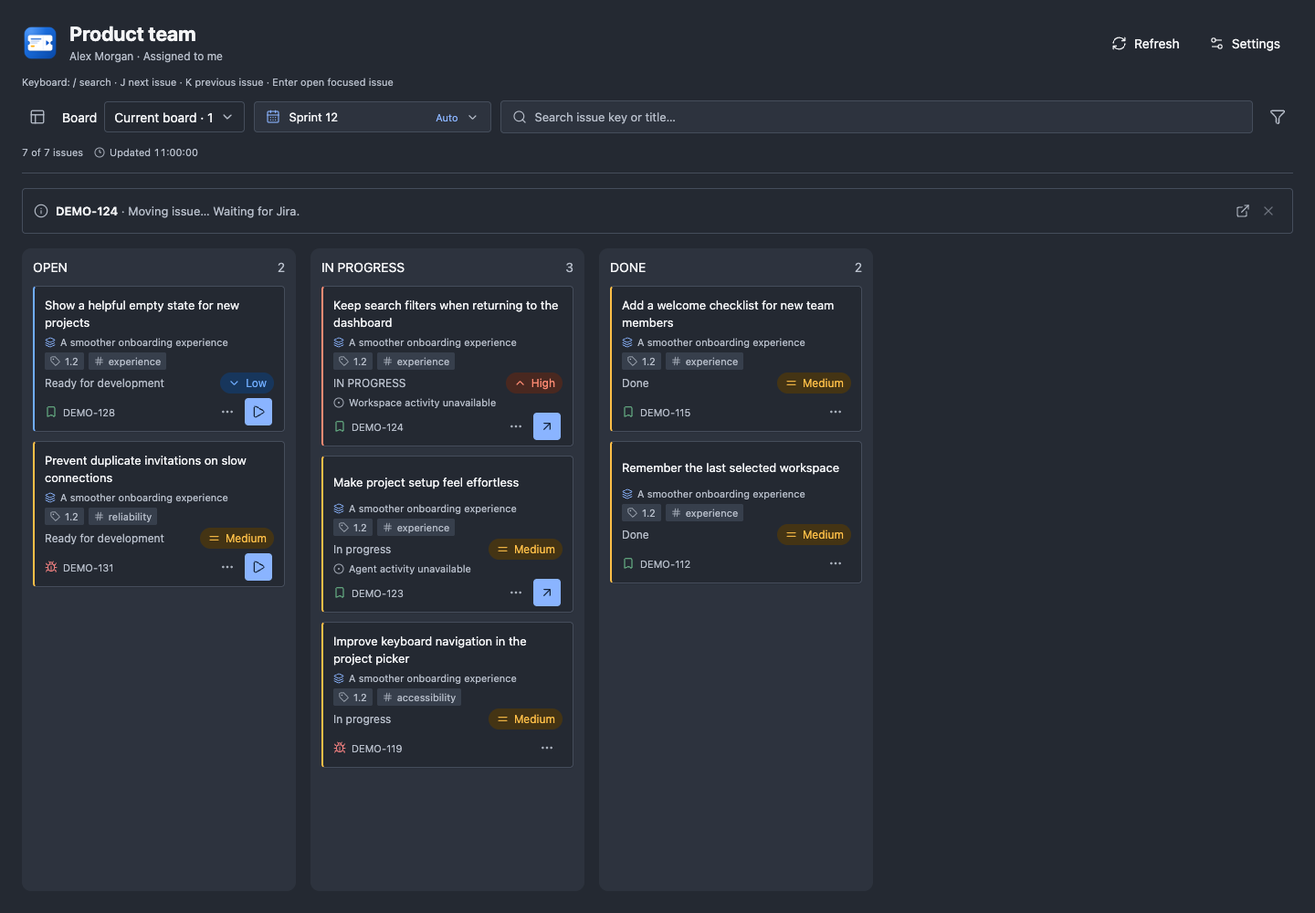
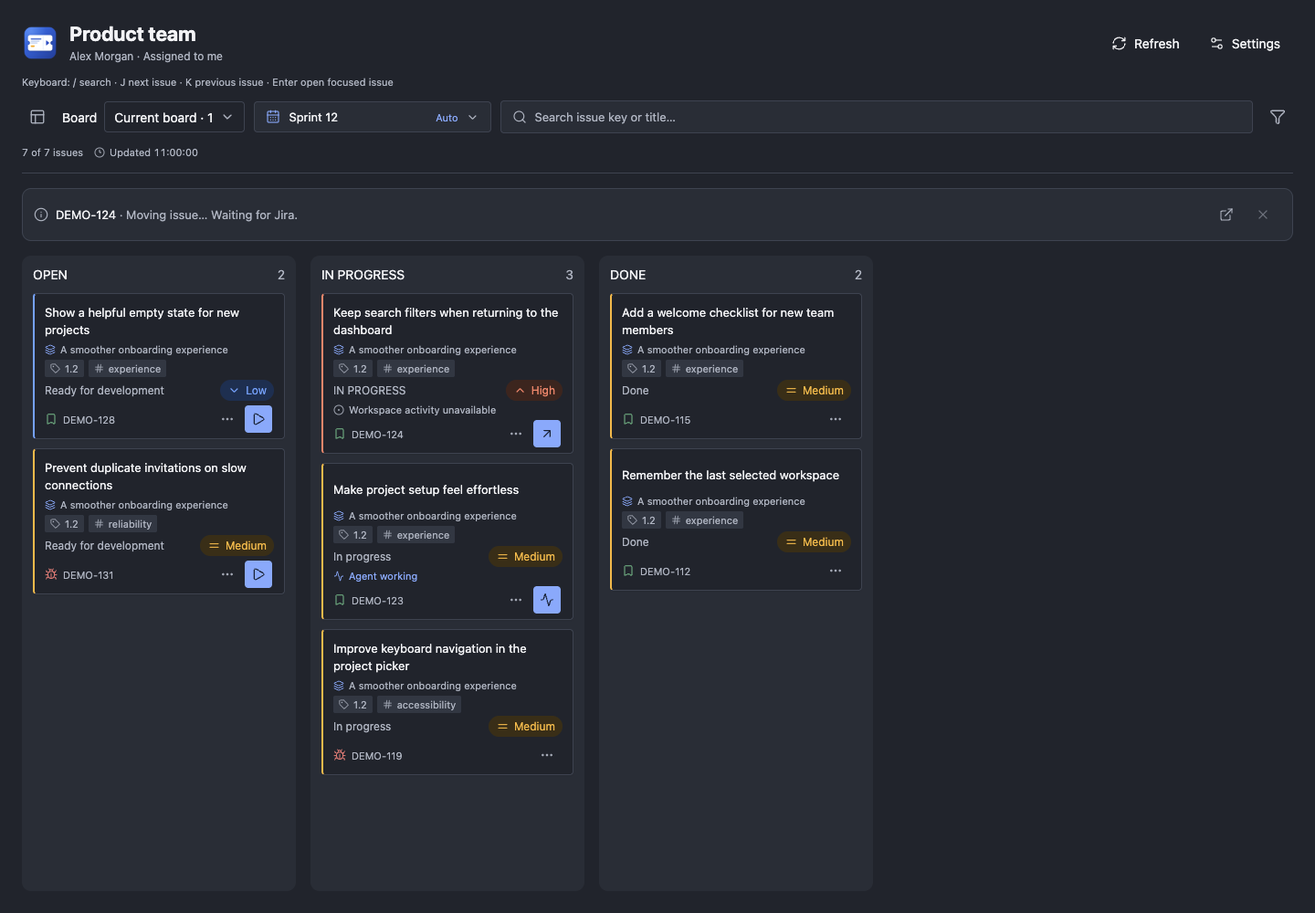
Release 1.4.0: agent-state actions and clearer Jira transitions (#51)
* feat(ui): release 1.4.0 with agent states and clearer transitions

* test(ui): wait for details before focusing attachment controls

---------

diff --git a/client/moves.tsx b/client/moves.tsx
@@ -11,12 +11,23 @@ import {readMoves,moveIssue} from '../shared/moves';
 type Option={id:string;name:string;statusId:string;column:string;development:boolean;existingWorkspace?:boolean;required:string[];destinations?:{projectId:string;name:string}[];fields?:TransitionField[]};
 type MoveContext={begin:(key:string,statusId:string,existingWorkspace:boolean)=>void;drop:(statuses:string[])=>void;cancel:()=>void;allowed:(statuses:string[])=>boolean;busy:boolean;issueKey:string;dragging:boolean;end:()=>void};
 const Context=createContext<MoveContext>({begin:()=>{},drop:()=>{},cancel:()=>{},allowed:()=>false,busy:false,issueKey:'',dragging:false,end:()=>{}});
+function TransitionChoice({option,theme,disabled,onPress}:{option:Option;theme:PluginScreenProps['theme'];disabled:boolean;onPress:()=>void}){
+ const [hovered,setHovered]=useState(false),[focused,setFocused]=useState(false);
+ const c=theme.colors;
+ return <Pressable accessibilityRole="button" accessibilityLabel={`Choose transition: ${option.name}`} accessibilityHint="Review this transition before confirming the move." accessibilityState={{disabled}} disabled={disabled} onPress={onPress} onHoverIn={()=>setHovered(true)} onHoverOut={()=>setHovered(false)} onFocus={()=>setFocused(true)} onBlur={()=>setFocused(false)} style={({pressed})=>({flexGrow:1,flexBasis:200,minWidth:0,minHeight:44,paddingHorizontal:12,paddingVertical:10,flexDirection:'row',alignItems:'center',gap:12,borderWidth:1,borderColor:focused?c.accent:c.border,borderRadius:radii.control,backgroundColor:hovered||focused||pressed?c.surface2:c.surface0,opacity:disabled?.5:1})}>
+  <Icon name="ArrowRight" size={18} color={c.accent}/>
+  <Text style={{flex:1,minWidth:0,fontSize:14,lineHeight:20,color:c.foreground}}>{option.name}</Text>
+  <Icon name="ChevronRight" size={16} color={c.foregroundMuted}/>
+ </Pressable>;
+}
 export function BoardMoves({children,sprintId,theme,onChanged,onOptimistic,site,disabled=false}:{disabled?:boolean;children:ReactNode;site:string;sprintId:number;theme:PluginScreenProps['theme'];onChanged:()=>void;onOptimistic:(key:string,statusId:string|undefined,pending?:boolean)=>void}){
  const read=useRpc(readMoves),move=useRpc(moveIssue);
  const [dragging,setDragging]=useState(false);
  const [key,setKey]=useState(''),[options,setOptions]=useState<Option[]>([]),[targets,setTargets]=useState<string[]>();
  const [busy,setBusy]=useState(false),[message,setMessage]=useState('');
  const [jiraTip,setJiraTip]=useState(false);
+ const [panelWidth,setPanelWidth]=useState(0);
+ const wide=panelWidth>=900;
  const [projectId,setProjectId]=useState<string>();
  const [selected,setSelected]=useState<Option>();const [values,setValues]=useState<Record<string,string>>({});
  const sourceStatus=useRef('');const existingWorkspace=useRef(false);const optimistic=useRef(false);
@@ -51,20 +62,32 @@ export function BoardMoves({children,sprintId,theme,onChanged,onOptimistic,site,
  const allowed=(_ids:string[])=>!disabled&&!busy&&!!latest.current.key;
  function drop(ids:string[]){setDragging(false);if(!allowed(ids))return;if(ids.includes(sourceStatus.current)){cancel();return;}if(existingWorkspace.current&&ids.length){optimistic.current=true;onOptimistic(latest.current.key,ids[0]);}void resolve(ids);}
  function cancel(){if(busy)return;++generation.current;setSelected(undefined);setKey('');setOptions([]);setMessage('');latest.current={key:'',options:[]};}
- return <Context.Provider value={{begin,drop,cancel,allowed,busy:busy||disabled,issueKey:key,dragging,end:()=>setDragging(false)}}>
- {key&&targets?<View style={{paddingHorizontal:12,paddingVertical:4,gap:4,borderWidth:1,borderColor:theme.colors.border,borderRadius:radii.control}}>
- <View style={{flexDirection:'row',alignItems:'center',gap:8}}>
-  <Icon name="Info" size={16} color={theme.colors.foregroundMuted}/>
-  <Text accessibilityRole={message?'alert':undefined} style={{flex:1,minWidth:0,color:theme.colors.foregroundMuted,fontSize:13,lineHeight:19,paddingVertical:6}}><Text style={{color:theme.colors.foreground,fontWeight:'600'}}>{key}</Text>{message?' · '+message:''}</Text>
-  <View style={{flexDirection:'row',alignItems:'center',gap:0}}>
+ const controls=(  <View style={{flexDirection:'row',alignItems:'center',gap:0}}>
   <View style={{position:'relative'}}>
    {jiraTip?<Tooltip theme={theme} text="Open in Jira"/>:null}
-   <Pressable accessibilityRole="link" accessibilityLabel={`Open ${key} in Jira`} onHoverIn={()=>setJiraTip(true)} onHoverOut={()=>setJiraTip(false)} onFocus={()=>setJiraTip(true)} onBlur={()=>setJiraTip(false)} onPress={()=>void openExternal(site+'/browse/'+key)} style={({pressed})=>({width:28,height:40,alignItems:'center',justifyContent:'center',borderRadius:radii.control,backgroundColor:pressed?theme.colors.surface2:'transparent'})}><Icon name="ExternalLink" size={16} color={theme.colors.foregroundMuted}/></Pressable>
+   <Pressable accessibilityRole="link" accessibilityLabel={`Open ${key} in Jira`} onHoverIn={()=>setJiraTip(true)} onHoverOut={()=>setJiraTip(false)} onFocus={()=>setJiraTip(true)} onBlur={()=>setJiraTip(false)} onPress={()=>void openExternal(site+'/browse/'+key)} style={({pressed})=>({width:40,height:40,alignItems:'center',justifyContent:'center',borderRadius:radii.control,backgroundColor:pressed?theme.colors.surface2:'transparent'})}><Icon name="ExternalLink" size={16} color={theme.colors.foregroundMuted}/></Pressable>
   </View>
-  <Pressable accessibilityRole="button" accessibilityLabel="Dismiss move status" disabled={busy} onPress={cancel} style={({pressed})=>({width:28,height:40,alignItems:'center',justifyContent:'center',borderRadius:radii.control,opacity:busy?.5:1,backgroundColor:pressed?theme.colors.surface2:'transparent'})}><Icon name="X" size={16} color={theme.colors.foregroundMuted}/></Pressable>
+  <Pressable accessibilityRole="button" accessibilityLabel="Dismiss move status" disabled={busy} onPress={cancel} style={({pressed})=>({width:40,height:40,alignItems:'center',justifyContent:'center',borderRadius:radii.control,opacity:busy?.5:1,backgroundColor:pressed?theme.colors.surface2:'transparent'})}><Icon name="X" size={16} color={theme.colors.foregroundMuted}/></Pressable>
+  </View>);
+ const choices=options.length>1;
+ return <Context.Provider value={{begin,drop,cancel,allowed,busy:busy||disabled,issueKey:key,dragging,end:()=>setDragging(false)}}>
+ {key&&targets?<View testID="move-status-panel" onLayout={event=>setPanelWidth(event.nativeEvent.layout.width)} style={{width:'100%',paddingHorizontal:12,paddingVertical:8,gap:10,borderWidth:1,borderColor:theme.colors.border,borderRadius:radii.surface,backgroundColor:theme.colors.surface1,flexDirection:choices&&wide?'row':'column',alignItems:choices&&wide?'center':undefined}}>
+ {choices?<>
+  <View style={{flex:wide?1:undefined,maxWidth:wide?460:undefined,minWidth:0,gap:4}}>
+   <View style={{flexDirection:'row',alignItems:'center',gap:8}}>
+    <Text accessibilityRole="header" style={{flex:1,minWidth:0,fontSize:14,lineHeight:20,color:theme.colors.foreground}}>{key} · Choose a transition</Text>
+    {!wide?controls:null}
+   </View>
+   <Text style={{fontSize:12,lineHeight:18,color:theme.colors.foregroundMuted}}>To {options[0].column} · Review before confirming</Text>
+   {message?<Text accessibilityRole="alert" style={{fontSize:13,lineHeight:19,color:theme.colors.foregroundMuted}}>{message}</Text>:null}
   </View>
- </View>
- {options.length>1?<View style={{gap:8,paddingBottom:8}}>{options.map(o=><Pressable key={o.id} accessibilityRole="button" disabled={busy} onPress={()=>{setProjectId(undefined);setSelected(o);setValues({});setMessage('');}} style={{padding:12,minHeight:44}}><Text style={{color:theme.colors.foreground}}>{o.name} → {o.column}</Text></Pressable>)}</View>:null}
+  <View style={{flex:wide?1:undefined,minWidth:0,flexDirection:'row',flexWrap:'wrap',gap:8}}>{options.map(o=><TransitionChoice key={o.id} option={o} theme={theme} disabled={busy} onPress={()=>{setProjectId(undefined);setSelected(o);setValues({});setMessage('');}}/>)}</View>
+  {wide?controls:null}
+ </>:<View style={{flexDirection:'row',alignItems:'center',gap:8}}>
+  <Icon name="Info" size={16} color={theme.colors.foregroundMuted}/>
+  <Text accessibilityRole={message?'alert':undefined} style={{flex:1,minWidth:0,color:theme.colors.foregroundMuted,fontSize:13,lineHeight:19}}><Text style={{color:theme.colors.foreground}}>{key}</Text>{message?' · '+message:''}</Text>
+  {controls}
+ </View>}
  </View>:null}
  {selected?<TransitionDialog destinations={selected.destinations} projectId={projectId} onProjectChange={setProjectId} theme={theme} issueKey={key} site={site} column={selected.column} development={selected.development} fields={selected.fields??[]} values={values} message={message} busy={busy} onChange={(id,value)=>setValues(v=>({...v,[id]:value}))} onClose={()=>setSelected(undefined)} onConfirm={()=>void execute(selected)}/>:null}
  {children}

diff --git a/client/start-work.tsx b/client/start-work.tsx
@@ -1,3 +1,4 @@
+import {workspaceAction,type WorkspaceActivity} from '../shared/workspace-activity';
 import {ProjectChoices} from './project-choices';
 import {useStartWorkState} from './start-work-state';
 import {radii} from './radii';
@@ -11,8 +12,8 @@ import {useState,useContext,type ReactNode} from 'react';
 import {Modal,ScrollView,ActivityIndicator,Pressable,Text,View,useWindowDimensions} from 'react-native';
 import {mappings,prepareBranches,startWork} from '../shared/contracts';
 
-type Props=Pick<PluginScreenProps,'theme'|'navigation'> & {linkedWorkspace?:{workspaceId:string;agentId?:string};canStart:boolean;mappingReady:boolean;onConfigureMapping?:()=>void;issueKey:string;sprintId:number;onStarted:()=>void;footer:ReactNode;showLabel?:boolean;dense?:boolean};
-export function StartWork({linkedWorkspace,canStart,theme,navigation,issueKey,mappingReady,onConfigureMapping,sprintId,onStarted,footer,showLabel=false,dense=false}:Props){
+type Props=Pick<PluginScreenProps,'theme'|'navigation'> & {activity?:WorkspaceActivity;linkedWorkspace?:{workspaceId:string;agentId?:string};canStart:boolean;mappingReady:boolean;onConfigureMapping?:()=>void;issueKey:string;sprintId:number;onStarted:()=>void;footer:ReactNode;showLabel?:boolean;dense?:boolean};
+export function StartWork({activity,linkedWorkspace,canStart,theme,navigation,issueKey,mappingReady,onConfigureMapping,sprintId,onStarted,footer,showLabel=false,dense=false}:Props){
   const compact=useWindowDimensions().width<760;
   const openIssue=useContext(OpenWorkspaceIssue);
   const start=useRpc(startWork);const prepare=useRpc(prepareBranches);
@@ -25,6 +26,7 @@ export function StartWork({linkedWorkspace,canStart,theme,navigation,issueKey,ma
   const [error,setError]=useState('');
   const result=linkedWorkspace??operation.result;
   const configure=result?undefined:onConfigureMapping;
+  const workspaceButton=workspaceAction(activity);
   const text={color:theme.colors.foreground};
   const errorText=(e:unknown)=>e instanceof Error?e.message.replace(/^Request failed: /,'').replace(/\s+requestType=.*$/,''):'Could not start work. Please retry.';
   async function execute(selection?:string,alreadyAcquired=false,destination?:string){
@@ -47,8 +49,8 @@ export function StartWork({linkedWorkspace,canStart,theme,navigation,issueKey,ma
     <View style={{flexDirection:'row',alignItems:'center',justifyContent:'space-between',gap:0}}>
       {footer}
       {(canStart||result)?<View style={{position:'relative'}}>
-        {tip&&!showLabel?<Tooltip theme={theme} text={configure?'Configure mapping':result?'Open workspace':busy?'Starting…':'Start work'}/>:null}
-        <Pressable aria-busy={busy} accessibilityRole="button" accessibilityLabel={`${configure?'Configure mapping for':result?'Open workspace':busy?'Starting':'Start work'} ${issueKey}`} accessibilityHint={configure?'Set up the Jira project mapping before starting work':result?'Open the linked agent':'Create or reuse a workspace and agent for this issue'} accessibilityState={{disabled:busy||(!configure&&!navigation)||(!result&&!mappingReady),busy}} disabled={busy||(!configure&&!navigation)||(!result&&!mappingReady)}
+        {tip&&!showLabel?<Tooltip theme={theme} text={configure?'Configure mapping':result?workspaceButton.label:busy?'Starting…':'Start work'}/>:null}
+        <Pressable testID={`workspace-action-${issueKey}`} aria-busy={busy} accessibilityRole="button" accessibilityLabel={`${configure?'Configure mapping for':result?'Open workspace':busy?'Starting':'Start work'} ${issueKey}`} accessibilityHint={configure?'Set up the Jira project mapping before starting work':result?workspaceButton.label:'Create or reuse a workspace and agent for this issue'} accessibilityState={{disabled:busy||(!configure&&!navigation)||(!result&&!mappingReady),busy}} disabled={busy||(!configure&&!navigation)||(!result&&!mappingReady)}
           onHoverIn={()=>setTip(true)} onHoverOut={()=>setTip(false)} onFocus={()=>setTip(true)} onBlur={()=>setTip(false)} onLongPress={()=>setTip(true)}
           onPress={()=>{
             setTip(false);
@@ -57,7 +59,7 @@ export function StartWork({linkedWorkspace,canStart,theme,navigation,issueKey,ma
             setError('');setProjectId(undefined);if(destinations.length>1){setChoosingProject(true);}else void prepareWork();
           }}
           style={({pressed})=>({width:showLabel?undefined:dense&&!compact?34:44,minHeight:(showLabel||dense)&&!compact?34:44,paddingHorizontal:showLabel?12:0,flexDirection:'row',gap:8,borderRadius:radii.control,alignItems:'center',justifyContent:'center',backgroundColor:showLabel?theme.colors.accent:pressed?theme.colors.surface2:'transparent',opacity:busy||(!configure&&!navigation)||(!result&&!mappingReady)?.5:1,transform:[{scale:pressed?.96:1}]})}>
-          <View style={{width:showLabel?18:30,height:showLabel?18:30,borderRadius:radii.control,backgroundColor:configure?theme.colors.surface2:theme.colors.accent,alignItems:'center',justifyContent:'center'}}>{busy?<ActivityIndicator color={theme.colors.accentForeground} size="small"/>:<Icon name={configure?'FolderGit2':result?'ArrowUpRight':'Play'} size={16} color={configure?theme.colors.accent:theme.colors.accentForeground}/>}</View>
+          <View style={{width:showLabel?18:30,height:showLabel?18:30,borderRadius:radii.control,backgroundColor:configure?theme.colors.surface2:theme.colors.accent,alignItems:'center',justifyContent:'center'}}>{busy?<ActivityIndicator color={theme.colors.accentForeground} size="small"/>:<Icon name={configure?'FolderGit2':result?workspaceButton.icon:'Play'} size={16} color={configure?theme.colors.accent:theme.colors.accentForeground}/>}</View>
           {showLabel?<Text style={{color:theme.colors.accentForeground,fontSize:14}}>{configure?'Configure mapping':result?'Open workspace':busy?'Starting…':'Start work'}</Text>:null}
         </Pressable>
       </View>:null}

diff --git a/shared/workspace-activity.ts b/shared/workspace-activity.ts
@@ -1,13 +1,13 @@
 export type ActivityState='attention'|'working'|'needs-input'|'finished'|'failed'|'idle'|'unavailable';
-export type WorkspaceActivity={state:ActivityState;source:'agent'|'workspace';updatedAt?:string;agentId?:string};
+export type WorkspaceActivity={state:ActivityState;source:'agent'|'workspace';updatedAt?:string;agentId?:string;requiresAttention?:boolean;done?:boolean};
 export type ActivityLink={workspaceId:string;agentId?:string};
-type Agent={id:string;workspaceId?:string;status:string;pendingPermissions:unknown[];attentionReason?:string|null;updatedAt:string;archivedAt?:string|null};
+type Agent={id:string;workspaceId?:string;status:string;pendingPermissions:unknown[];attentionReason?:string|null;requiresAttention?:boolean;updatedAt:string;archivedAt?:string|null};
 type Workspace={id:string;status:string;activityAt:string|null;archivingAt?:string|null};
 export type ActivityReader={agents:{ref:(id:string)=>{refresh:()=>Promise<{agent:Agent}|null>}};workspaces:{ref:(id:string)=>{refresh:()=>Promise<Workspace|null>}}};
 export const activityKey=(link:ActivityLink)=>JSON.stringify([link.workspaceId,link.agentId??'']);
 export function agentActivity(agent:Agent):WorkspaceActivity{
  const state=agent.pendingPermissions.length||agent.attentionReason==='permission'?'needs-input':agent.status==='error'||agent.attentionReason==='error'?'failed':agent.status==='running'||agent.status==='initializing'?'working':agent.attentionReason==='finished'?'finished':'idle';
- return {state,source:'agent',agentId:agent.id,updatedAt:agent.updatedAt};
+ return {state,source:'agent',agentId:agent.id,updatedAt:agent.updatedAt,requiresAttention:agent.requiresAttention};
 }
 // Read metadata only for linked workspaces. Bound concurrency and isolate failures;
 // never read timelines, infer completion from idle, or propagate provider errors.
@@ -20,7 +20,7 @@ export async function readWorkspaceActivity(reader:ActivityReader,links:Activity
    try{if(link.agentId){const entry=await reader.agents.ref(link.agentId).refresh();
     if(entry&&entry.agent.id===link.agentId&&entry.agent.workspaceId===link.workspaceId&&!entry.agent.archivedAt)value=agentActivity(entry.agent);
    }else{const workspace=await reader.workspaces.ref(link.workspaceId).refresh();
-    if(workspace&&workspace.id===link.workspaceId&&!workspace.archivingAt)value={source,state:workspace.status==='running'?'working':workspace.status==='needs_input'?'needs-input':workspace.status==='failed'?'failed':workspace.status==='attention'?'attention':'idle',updatedAt:workspace.activityAt??undefined};
+    if(workspace&&workspace.id===link.workspaceId&&!workspace.archivingAt)value={source,state:workspace.status==='running'?'working':workspace.status==='needs_input'?'needs-input':workspace.status==='failed'?'failed':workspace.status==='attention'?'attention':'idle',updatedAt:workspace.activityAt??undefined,done:workspace.status==='done'};
    }}catch{/* Keep an explicit unavailable state, without leaking error text. */}
    result[activityKey(link)]=value;
   }
@@ -29,4 +29,17 @@ export async function readWorkspaceActivity(reader:ActivityReader,links:Activity
 export function activityLabel(value:WorkspaceActivity){
  const prefix=value.source==='agent'?'Agent':'Workspace';
  return `${prefix} ${({'attention':'needs attention','working':'working','needs-input':'needs input','finished':'finished','failed':'failed','idle':'idle','unavailable':'activity unavailable'} as const)[value.state]}`;
+}
+
+// Match Paseo's review/done distinction only when attention metadata is known.
+// Missing metadata must not turn an unknown or merely idle agent into "done".
+export function workspaceAction(value?:WorkspaceActivity){
+ if(!value||value.state==='unavailable')return {icon:'ArrowUpRight',label:'Open workspace'} as const;
+ if(value.state==='needs-input')return {icon:'ShieldQuestion',label:'Waiting for approval · Open workspace'} as const;
+ if(value.state==='failed')return {icon:'CircleAlert',label:'Agent error · Open workspace'} as const;
+ if(value.state==='working')return {icon:'Activity',label:'Agent running · Open workspace'} as const;
+ if(value.state==='attention'||value.requiresAttention===true)return {icon:'Eye',label:'Waiting for review · Open workspace'} as const;
+ if(value.done||value.requiresAttention===false)return {icon:'CircleCheck',label:'Done · Open workspace'} as const;
+ if(value.state==='finished')return {icon:'CircleCheck',label:'Agent finished · Open workspace'} as const;
+ return {icon:'CirclePause',label:'Agent idle · Open workspace'} as const;
 }

diff --git a/client/issue-details.tsx b/client/issue-details.tsx
@@ -1,3 +1,4 @@
+import type {WorkspaceActivity} from '../shared/workspace-activity';
 import {radii} from './radii';
 import {PriorityBadge} from './priority-badge';
 import {IssueNavigation,type IssueNavigationProps} from './issue-navigation';
@@ -21,7 +22,7 @@ import {Modal as NativeModal,SafeAreaView,KeyboardAvoidingView,Platform,Pressabl
 import type {ReactNode} from 'react';
 import {readIssueDetails,type Issue} from '../shared/contracts';
 import {Action} from './settings-ui';
-export function IssueDetails({issueNavigation,startAvailable=true,contentAvailable=true,readOnly=false,connectionRevision='',issue,sprintId,theme,onClose,onOpenJira,hostId,navigation,mappingReady,onConfigureMapping,onStarted,presentation='modal',panelWidth=480,panelCollapsed=false,onTogglePanel=onClose,onResizePanel=()=>{}}:{issueNavigation?:IssueNavigationProps;startAvailable?:boolean;contentAvailable?:boolean;readOnly?:boolean;connectionRevision?:string;presentation?:'modal'|'panel'|'fullscreen';panelWidth?:number;panelCollapsed?:boolean;onTogglePanel?:()=>void;onResizePanel?:(width:number)=>void;navigation:PluginScreenProps['navigation'];mappingReady:boolean;onConfigureMapping?:()=>void;onStarted:()=>void;hostId:string;issue:Issue;sprintId:number;theme:PluginScreenProps['theme'];onClose:()=>void;onOpenJira:()=>void}){
+export function IssueDetails({activity,issueNavigation,startAvailable=true,contentAvailable=true,readOnly=false,connectionRevision='',issue,sprintId,theme,onClose,onOpenJira,hostId,navigation,mappingReady,onConfigureMapping,onStarted,presentation='modal',panelWidth=480,panelCollapsed=false,onTogglePanel=onClose,onResizePanel=()=>{}}:{activity?:WorkspaceActivity;issueNavigation?:IssueNavigationProps;startAvailable?:boolean;contentAvailable?:boolean;readOnly?:boolean;connectionRevision?:string;presentation?:'modal'|'panel'|'fullscreen';panelWidth?:number;panelCollapsed?:boolean;onTogglePanel?:()=>void;onResizePanel?:(width:number)=>void;navigation:PluginScreenProps['navigation'];mappingReady:boolean;onConfigureMapping?:()=>void;onStarted:()=>void;hostId:string;issue:Issue;sprintId:number;theme:PluginScreenProps['theme'];onClose:()=>void;onOpenJira:()=>void}){
  const [descriptionExpanded,setDescriptionExpanded]=useState(true);
  const [jiraTip,setJiraTip]=useState(false);
  const read=useRpc(readIssueDetails);
@@ -31,7 +32,7 @@ export function IssueDetails({issueNavigation,startAvailable=true,contentAvailab
  return <DetailsShell panelCollapsed={panelCollapsed} onTogglePanel={onTogglePanel} onResizePanel={onResizePanel} presentation={presentation} panelWidth={panelWidth} issueKey={issue.key} theme={theme} onClose={onClose}>
   {issueNavigation?<IssueNavigation {...issueNavigation} theme={theme}/>:null}
   <Text selectable style={{color:c.foreground,fontSize:22,lineHeight:29,fontWeight:'700'}}>{issue.summary}</Text>
-  <StartWork showLabel linkedWorkspace={issue.linkedWorkspace} canStart={startAvailable&&canStartWork(issue)} mappingReady={mappingReady} onConfigureMapping={startAvailable?onConfigureMapping:undefined} theme={theme} navigation={navigation} issueKey={issue.key} sprintId={sprintId} onStarted={onStarted} footer={
+  <StartWork activity={activity} showLabel linkedWorkspace={issue.linkedWorkspace} canStart={startAvailable&&canStartWork(issue)} mappingReady={mappingReady} onConfigureMapping={startAvailable?onConfigureMapping:undefined} theme={theme} navigation={navigation} issueKey={issue.key} sprintId={sprintId} onStarted={onStarted} footer={
    <View style={{flexDirection:'row',alignItems:'center',flexWrap:'wrap',gap:8,flex:1,minWidth:0}}><View style={{paddingHorizontal:10,paddingVertical:6,borderRadius:radii.control,backgroundColor:c.surface2}}><Text style={{color:c.foreground,fontSize:13}}>{issue.status}</Text></View><Text style={{color:c.foregroundMuted,fontSize:13}}>{issue.type}</Text>{issue.priority?<PriorityBadge priority={issue.priority}/>:null}<View style={{position:'relative'}}>
     {jiraTip?<Tooltip theme={theme} text="Open in Jira" align="left" offset={42}/>:null}
     <Pressable accessibilityRole="link" accessibilityLabel="Open in Jira" onHoverIn={()=>setJiraTip(true)} onHoverOut={()=>setJiraTip(false)} onFocus={()=>setJiraTip(true)} onBlur={()=>setJiraTip(false)} onLongPress={()=>setJiraTip(true)} onPress={()=>{setJiraTip(false);onOpenJira();}} style={({pressed})=>({width:40,height:40,borderRadius:radii.control,alignItems:'center',justifyContent:'center',backgroundColor:pressed?c.surface2:'transparent'})}><Icon name="ExternalLink" size={17} color={c.foregroundMuted}/></Pressable>

diff --git a/client/tooltip.tsx b/client/tooltip.tsx
@@ -1,13 +1,43 @@
 import {radii} from './radii';
-import {useState} from 'react';
+import {createElement,useLayoutEffect,useRef,useState} from 'react';
 import {Platform,Text,View,useWindowDimensions} from 'react-native';
 import type {SettingsTheme} from './settings-ui';
+
+type TooltipElement=HTMLDivElement & {showPopover?:()=>void;getBoundingClientRect:()=>{left:number;right:number;top:number;bottom:number;width:number;height:number};style:Record<string,string>};
+declare const window:{innerWidth:number;innerHeight:number;addEventListener:(event:string,listener:()=>void,capture?:boolean)=>void;removeEventListener:(event:string,listener:()=>void,capture?:boolean)=>void};
+declare const ResizeObserver:{new(callback:()=>void):{observe:(element:TooltipElement)=>void;disconnect:()=>void}};
+
+// The browser top layer escapes card/column overflow without a modal focus trap.
+function WebTooltip({theme,text,align,placement,offset}:{theme:SettingsTheme;text:string;align:'left'|'right';placement:'above'|'below';offset:number}){
+ const anchor=useRef<TooltipElement>(null),bubble=useRef<TooltipElement>(null);
+ useLayoutEffect(()=>{
+  const node=bubble.current,origin=anchor.current;if(!node||!origin)return;
+  node.showPopover?.();
+  const position=()=>{
+   const r=origin.getBoundingClientRect(),size=node.getBoundingClientRect();
+   const margin=8,limit=window.innerWidth-margin-size.width;
+   const left=Math.max(margin,Math.min(align==='left'?r.left:r.right-size.width,limit));
+   const above=r.bottom-offset-size.height,below=r.top+offset;
+   const preferred=placement==='above'?above:below;
+   const alternate=placement==='above'?below:above;
+   const top=Math.max(margin,Math.min(preferred<margin||preferred+size.height>window.innerHeight-margin?alternate:preferred,window.innerHeight-margin-size.height));
+   Object.assign(node.style,{left:`${left}px`,top:`${top}px`,visibility:r.bottom<0||r.top>window.innerHeight||r.right<0||r.left>window.innerWidth?'hidden':'visible'});
+  };
+  position();
+  window.addEventListener('scroll',position,true);window.addEventListener('resize',position);
+  const observer=new ResizeObserver(position);observer.observe(node);observer.observe(origin);
+  return ()=>{observer.disconnect();window.removeEventListener('scroll',position,true);window.removeEventListener('resize',position);};
+ },[text,align,placement,offset]);
+ return createElement('div',{ref:anchor,style:{position:'absolute',inset:0,pointerEvents:'none'}},
+  createElement('div',{ref:bubble,popover:'manual',role:'tooltip',style:{position:'fixed',inset:'auto',margin:0,border:0,width:'max-content',maxWidth:'min(280px, calc(100vw - 16px))',boxSizing:'border-box',padding:'4px 8px',borderRadius:radii.small,background:theme.colors.foreground,color:theme.colors.surface0,fontSize:12,lineHeight:'16px',fontWeight:400,textAlign:'left',overflowWrap:'anywhere',pointerEvents:'none',visibility:'hidden',zIndex:2147483647}},text));
+}
 
 // Shared presentation for every plugin-owned tooltip; the trigger owns visibility.
 export function Tooltip({theme,text,align='right',placement='above',offset=44}:{theme:SettingsTheme;text:string;align?:'left'|'right';placement?:'above'|'below';offset?:number}){
  const {width}=useWindowDimensions();
  const [measuredWidth,setMeasuredWidth]=useState<number>();
  const web=Platform.OS==='web';
+ if(web)return <WebTooltip theme={theme} text={text} align={align} placement={placement} offset={offset}/>;
  return <View pointerEvents="none" style={{position:'absolute',...(align==='left'?{left:0}:{right:0}),...(placement==='above'?{bottom:offset}:{top:offset}),width:web?'max-content' as any:measuredWidth??Math.min(280,width-24),maxWidth:Math.min(280,width-24),paddingHorizontal:8,paddingVertical:4,borderRadius:radii.small,backgroundColor:theme.colors.foreground,zIndex:10,opacity:web||measuredWidth?1:0}}>
   <Text onTextLayout={web?undefined:event=>{const content=Math.max(0,...event.nativeEvent.lines.map(line=>line.width));setMeasuredWidth(Math.ceil(content)+16);}} style={{color:theme.colors.surface0,fontSize:12,lineHeight:16,textAlign:'left',fontWeight:'400'}}>{text}</Text>
  </View>;

diff --git a/client/dashboard.tsx b/client/dashboard.tsx
@@ -258,7 +258,7 @@ function DashboardBody({host,theme,layout,navigation}:PluginScreenProps){
     </BoardMoves>}
   </View>
   {showEmptyPanel?<DetailsPanel empty theme={theme} issueKey="" width={clampPanelWidth(panelWidth,availableWidth)} collapsed={panelCollapsed} onToggle={()=>setPanelCollapsed(value=>!value)} onResize={width=>setPanelWidth(clampPanelWidth(width,availableWidth))}>{null}</DetailsPanel>:null}
-  {!selectionGone&&selected&&currentIssue&&preferences.status==='ready'&&availableWidth>0?<IssueDetails issueNavigation={{focusDirection,position:detailNav.index+1,total:detailNav.total,onPrevious:detailNav.previous?()=>goToIssue(detailNav.previous,'previous'):undefined,onNext:detailNav.next?()=>goToIssue(detailNav.next,'next'):undefined}} startAvailable={true} readOnly={twgReadOnly} connectionRevision={revision} key={`${host.id}:${selected.sprintId}:${currentIssue.key}`} presentation={presentation} panelWidth={clampPanelWidth(panelWidth,availableWidth)} panelCollapsed={panelCollapsed} onTogglePanel={()=>setPanelCollapsed(value=>!value)} onResizePanel={width=>setPanelWidth(clampPanelWidth(width,availableWidth))} navigation={navigation} mappingReady={projectMappings.status==='ready'} onConfigureMapping={projectMappings.status==='ready'&&!projectMappings.values.items.some(m=>m.jiraProjectKey===currentIssue.projectKey)?()=>{setSelected(undefined);setMappingProject(currentIssue.projectKey);setEditing(true);}:undefined} onStarted={()=>void board.refetch()} hostId={host.id} issue={currentIssue} sprintId={selected.sprintId} theme={theme} onClose={()=>setSelected(undefined)} onOpenJira={()=>{void openExternal(`${selected.site}/browse/${currentIssue.key}`).catch(()=>setLinkError('Could not open Jira. Please try again.'));}}/>:null}
+  {!selectionGone&&selected&&currentIssue&&preferences.status==='ready'&&availableWidth>0?<IssueDetails activity={currentIssue.linkedWorkspace?activity.data?.[activityKey(currentIssue.linkedWorkspace)]:undefined} issueNavigation={{focusDirection,position:detailNav.index+1,total:detailNav.total,onPrevious:detailNav.previous?()=>goToIssue(detailNav.previous,'previous'):undefined,onNext:detailNav.next?()=>goToIssue(detailNav.next,'next'):undefined}} startAvailable={true} readOnly={twgReadOnly} connectionRevision={revision} key={`${host.id}:${selected.sprintId}:${currentIssue.key}`} presentation={presentation} panelWidth={clampPanelWidth(panelWidth,availableWidth)} panelCollapsed={panelCollapsed} onTogglePanel={()=>setPanelCollapsed(value=>!value)} onResizePanel={width=>setPanelWidth(clampPanelWidth(width,availableWidth))} navigation={navigation} mappingReady={projectMappings.status==='ready'} onConfigureMapping={projectMappings.status==='ready'&&!projectMappings.values.items.some(m=>m.jiraProjectKey===currentIssue.projectKey)?()=>{setSelected(undefined);setMappingProject(currentIssue.projectKey);setEditing(true);}:undefined} onStarted={()=>void board.refetch()} hostId={host.id} issue={currentIssue} sprintId={selected.sprintId} theme={theme} onClose={()=>setSelected(undefined)} onOpenJira={()=>{void openExternal(`${selected.site}/browse/${currentIssue.key}`).catch(()=>setLinkError('Could not open Jira. Please try again.'));}}/>:null}
   </View>
   </View>
   </View>;

diff --git a/cypress/registry/listing.cy.tsx b/cypress/registry/listing.cy.tsx
@@ -6,6 +6,31 @@ const button=(label:string)=>cy.get(`[role="button"][aria-label="${label}"]`);
 const detail=()=>cy.get('[aria-label^="Open details for DEMO-123:"]');
 describe('Registry previews',()=>{
  beforeEach(()=>registryRpc());
+ // Generated by Cypress Author, 2026-11-20.
+ it('agent states → visible approval, running, review and done actions',()=>{
+  cy.viewport(1440,1000);
+  const states=[{status:'idle',pendingPermissions:[{}],requiresAttention:true},{status:'running',pendingPermissions:[],requiresAttention:false},{status:'idle',pendingPermissions:[],requiresAttention:true,attentionReason:'finished'},{status:'idle',pendingPermissions:[],requiresAttention:false}];
+  cy.intercept('POST','/__rpc/board.read',{body:{...registryBoard,issues:registryBoard.issues.map((i,index)=>index<4?{...i,linkedWorkspace:{workspaceId:`workspace-${index}`,agentId:`agent-${index}`}}:i)}});
+  states.forEach((state,index)=>cy.intercept('GET',`/__paseo/agents/agent-${index}`,{agent:{id:`agent-${index}`,workspaceId:`workspace-${index}`,updatedAt:'2026-11-20T10:00:00Z',...state}}));
+  mount(<Harness preview mappingItems={registryMappings}/>);
+  cy.get('[data-testid="workspace-action-DEMO-124"] svg.lucide-shield-question').should('exist');
+  cy.get('[data-testid="workspace-action-DEMO-128"] svg.lucide-activity').should('exist');
+  cy.get('[data-testid="workspace-action-DEMO-131"] svg.lucide-eye').should('exist');
+  cy.get('[data-testid="workspace-action-DEMO-123"] svg.lucide-circle-check').should('exist');
+  button('Open workspace DEMO-124').focus();cy.contains('Waiting for approval · Open workspace').should('be.visible');
+  cy.get('[data-cy-root]').screenshot('registry-agent-states');
+ });
+ it('ambiguous transition → compact full-width choices above the board',()=>{
+  cy.viewport(1440,1000);
+  cy.intercept('POST','/__rpc/board.read',{body:{...registryBoard,columns:registryBoard.columns.map((column,index)=>index===1?{...column,name:'VALIDATION READY / VALIDATED'}:column)}});
+  cy.intercept('POST','/__rpc/issue.moves',{body:['Validation ready','Validated'].map((name,index)=>({id:String(index),name,statusId:'2',column:'VALIDATION READY / VALIDATED',development:false,required:[],fields:[]}))});
+  mount(<Harness preview mappingItems={registryMappings}/>);
+  const dataTransfer=new DataTransfer();
+  cy.get('[aria-label^="Open details for DEMO-124:"]').closest('[draggable]').trigger('dragstart',{dataTransfer});
+  cy.get('[data-testid="board-column-1"]').trigger('drop',{dataTransfer});
+  button('Choose transition: Validated').should('be.visible');
+  cy.get('[data-cy-root]').screenshot('registry-transitions');
+ });
  // Generated by Cypress Author, 2026-11-16.
  it('existing workspace move → immediate column feedback while Jira is pending',()=>{
   cy.viewport(1440,1000);

diff --git a/cypress/component/workflows.cy.tsx b/cypress/component/workflows.cy.tsx
@@ -44,6 +44,26 @@ function drop(column:number){
 }
 describe(`Mocked ${transport} transitions`,()=>{
  beforeEach(()=>{cy.viewport(1200,800);stubRpc();});
+ // Generated by Cypress Author, 2026-11-17.
+ for(const width of [1920,1200,390,320])it(`multiple transitions at ${width}px → review the chosen option before any Jira write`,()=>{
+  cy.intercept('POST','/__rpc/issue.moves',{body:[{...option,name:'Rejected',column:'VALIDATION READY/ VALIDATED',development:false,fields:[],required:[]},{...option,id:'22',name:'Closed',column:'VALIDATION READY/ VALIDATED',development:false,fields:[],required:[]}]}).as('moves');
+  cy.intercept('POST','/__rpc/issue.move',{body:{}}).as('move');
+  mount(<Harness transport={transport} twgWrites mcpWrites light={transport==='twg'}/>);drop(1);cy.wait('@moves');cy.viewport(width,800);
+  cy.contains('Choose a transition').should('be.visible');
+  cy.get('[data-testid="move-status-panel"]').should($panel=>{
+   const rect=$panel[0].getBoundingClientRect();expect(rect.width).to.be.greaterThan(width-60);
+   if(width>=1200)expect(rect.height).to.be.lessThan(80);
+  });
+  button('Choose transition: Rejected').should('be.visible');
+  button('Choose transition: Closed').should('be.visible').should($el=>{
+   const rect=$el[0].getBoundingClientRect();expect(rect.height).to.be.at.least(44);expect(rect.right).to.be.at.most(width);
+  }).focus().should('have.focus');
+  if(transport==='rest')cy.screenshot(`transition-choices-${width}`,{capture:'viewport'});
+  cy.get('@move.all').should('have.length',0);
+  button('Choose transition: Closed').click();cy.contains('[role="button"]','Move issue').should('be.visible');
+  cy.get('@move.all').should('have.length',0);
+  cy.contains('[role="button"]','Move issue').click();cy.wait('@move').its('request.body.transitionId').should('equal','22');
+ });
  it('same-column drop → no workflow requests or dialog',()=>{
   let reads=0;cy.intercept('POST','/__rpc/issue.moves',req=>{reads++;req.reply([]);});
   mount(<Harness transport={transport} twgWrites mcpWrites/>);drop(0);button('Select sprint').should('be.visible').then(()=>expect(reads).to.equal(0));cy.contains('Move issue').should('not.exist');

diff --git a/cypress/component/workspace-activity.cy.tsx b/cypress/component/workspace-activity.cy.tsx
@@ -18,3 +18,24 @@ it('missing activity → keep board and workspace action available without expos
  mount(<Harness/>);cy.get('[data-testid="workspace-activity"]').should('contain','activity unavailable');
  cy.get('[aria-label="Open workspace TEST-1"]').should('be.visible');
 });
+// Generated by Cypress Author, 2026-11-20.
+for(const transport of ['rest','twg','mcp'] as const)it(`${transport} activity changes → update both workspace buttons and retain navigation`,()=>{
+ cy.viewport(1440,900);cy.clock(Date.now(),['setInterval','clearInterval']);stubRpc();
+ cy.intercept('POST','/__rpc/board.read',{...board,issues:[{...issue(),linkedWorkspace:{workspaceId:'w',agentId:'a'}}]});
+ let state={status:'running',pendingPermissions:[] as unknown[],attentionReason:null as string|null,requiresAttention:false};
+ cy.intercept('GET','/__paseo/agents/a',req=>req.reply({agent:{id:'a',workspaceId:'w',updatedAt:'2026-11-20T10:00:00Z',...state}})).as('activity');
+ const openWorkspace=cy.stub().as('openWorkspace');mount(<Harness transport={transport} mode="panel" navigation={{openWorkspace}}/>);
+ cy.wait('@activity');cy.get('[data-testid="keyboard-issue-title"]').click();
+ const buttons=()=>cy.get('[data-testid="workspace-action-TEST-1"]');
+ buttons().should('have.length',2).find('svg.lucide-activity').should('have.length',2);
+ for(const [next,icon,label] of [
+  [{status:'running',pendingPermissions:[{}],attentionReason:'permission',requiresAttention:true},'shield-question','Waiting for approval'],
+  [{status:'idle',pendingPermissions:[],attentionReason:'finished',requiresAttention:true},'eye','Waiting for review'],
+  [{status:'idle',pendingPermissions:[],attentionReason:null,requiresAttention:false},'circle-check','Done'],
+ ] as const){
+  cy.then(()=>{state={...next,pendingPermissions:[...next.pendingPermissions]};});cy.tick(15000);cy.wait('@activity');
+  buttons().find(`svg.lucide-${icon}`).should('have.length',2);
+  buttons().first().focus();cy.contains(`${label} · Open workspace`).should('be.visible');buttons().first().blur();
+ }
+ buttons().first().click();cy.get('@openWorkspace').should('have.been.calledWith',{workspaceId:'w'});
+});

diff --git a/client/issue-card.tsx b/client/issue-card.tsx
@@ -46,7 +46,7 @@ export function IssueCard({preview=false,display=defaultDisplayPreferences,jiraU
    </Pressable>:null}
    <View style={{flexDirection:'row',alignItems:'center',gap:8}}><Text style={{color:colors.foregroundMuted,fontSize:12,lineHeight:17,flex:1}}>{issue.status}</Text>{issue.priority?<PriorityBadge priority={issue.priority}/>:null}</View>
    <ActivityBadge dense={dense} value={activity} theme={theme}/>
-   <StartWork dense={dense} linkedWorkspace={issue.linkedWorkspace} canStart={startAvailable&&canStartWork(issue)} mappingReady={mappingReady} onConfigureMapping={startAvailable?onConfigureMapping:undefined} theme={theme} navigation={navigation} issueKey={issue.key} sprintId={sprintId} onStarted={onStarted} footer={
+   <StartWork activity={activity} dense={dense} linkedWorkspace={issue.linkedWorkspace} canStart={startAvailable&&canStartWork(issue)} mappingReady={mappingReady} onConfigureMapping={startAvailable?onConfigureMapping:undefined} theme={theme} navigation={navigation} issueKey={issue.key} sprintId={sprintId} onStarted={onStarted} footer={
      <View style={{flex:1,flexDirection:'row',alignItems:'center',gap:5,justifyContent:'space-between'}}>
        <View style={{minHeight:rowHeight,flexDirection:'row',alignItems:'center',gap:6,flexShrink:1}}><Icon name={typeIcon} size={14} color={typeColor}/><Text numberOfLines={1} style={{color:colors.foregroundMuted,fontSize:11,fontWeight:'400'}}><SearchHighlight text={issue.key} ranges={matches.key} theme={theme}/></Text></View>
 

diff --git a/tests/workspace-activity.test.ts b/tests/workspace-activity.test.ts
@@ -32,3 +32,16 @@ test('attention filters combine with Jira fields, never treat unknown as finishe
  assert.equal(matchesBoardView({...issue,linkedWorkspace:undefined},'',{...emptyFilters(),activity:['No workspace']}),true);
  assert.deepEqual(boardFiltersSchema.parse({labels:['a']}).activity,[]);
 });
+
+import {workspaceAction} from '../shared/workspace-activity';
+test('workspace button distinguishes approval, running, review and done without guessing missing metadata',()=>{
+ const present=(changes:Partial<Parameters<typeof agentActivity>[0]>)=>workspaceAction(agentActivity({...agent,...changes}));
+ assert.equal(present({status:'running',pendingPermissions:[{}],requiresAttention:true}).icon,'ShieldQuestion');
+ assert.equal(present({status:'running',requiresAttention:true}).icon,'Activity');
+ assert.equal(present({attentionReason:'finished',requiresAttention:true}).icon,'Eye');
+ assert.equal(present({requiresAttention:false}).label,'Done · Open workspace');
+ assert.equal(present({status:'error',requiresAttention:true}).icon,'CircleAlert');
+ assert.equal(present({}).icon,'CirclePause');
+ assert.equal(workspaceAction({state:'unavailable',source:'agent'}).icon,'ArrowUpRight');
+ assert.equal(workspaceAction({state:'idle',source:'workspace',done:true}).icon,'CircleCheck');
+});

diff --git a/cypress/component/tooltips.cy.tsx b/cypress/component/tooltips.cy.tsx
@@ -1,0 +1,22 @@
+// Generated by Cypress Author, 2026-11-20.
+import {mount} from 'cypress/react';
+import {Tooltip} from '../../client/tooltip';
+const theme:any={colors:{foreground:'#f4f5f7',surface0:'#242932'}};
+for(const width of [1200,390,320])it(`tooltip at ${width}px → escapes clipping and stays inside the viewport without taking focus`,()=>{
+ cy.viewport(width,600);
+ mount(<div style={{height:160,width:240,overflow:'hidden',position:'relative',marginLeft:8}}>
+  <div style={{position:'relative',width:32,marginTop:8}}>
+   <button aria-label="Open workspace">Open</button>
+   <Tooltip theme={theme} text="Waiting for approval · Open workspace"/>
+  </div>
+ </div>);
+ cy.get('[aria-label="Open workspace"]').focus();
+ cy.get('[role="tooltip"]').should('be.visible').should($tip=>{
+  const el=$tip[0],r=el.getBoundingClientRect();
+  expect(el.matches(':popover-open')).to.equal(true);
+  expect(r.left).to.be.at.least(8);expect(r.right).to.be.at.most(width-8);expect(r.top).to.be.at.least(8);
+  expect(r.width).to.be.greaterThan(32);
+ });
+ cy.get('[aria-label="Open workspace"]').should('have.focus');
+ cy.viewport(320,600);cy.get('[role="tooltip"]').should($tip=>expect($tip[0].getBoundingClientRect().right).to.be.at.most(312));
+});
